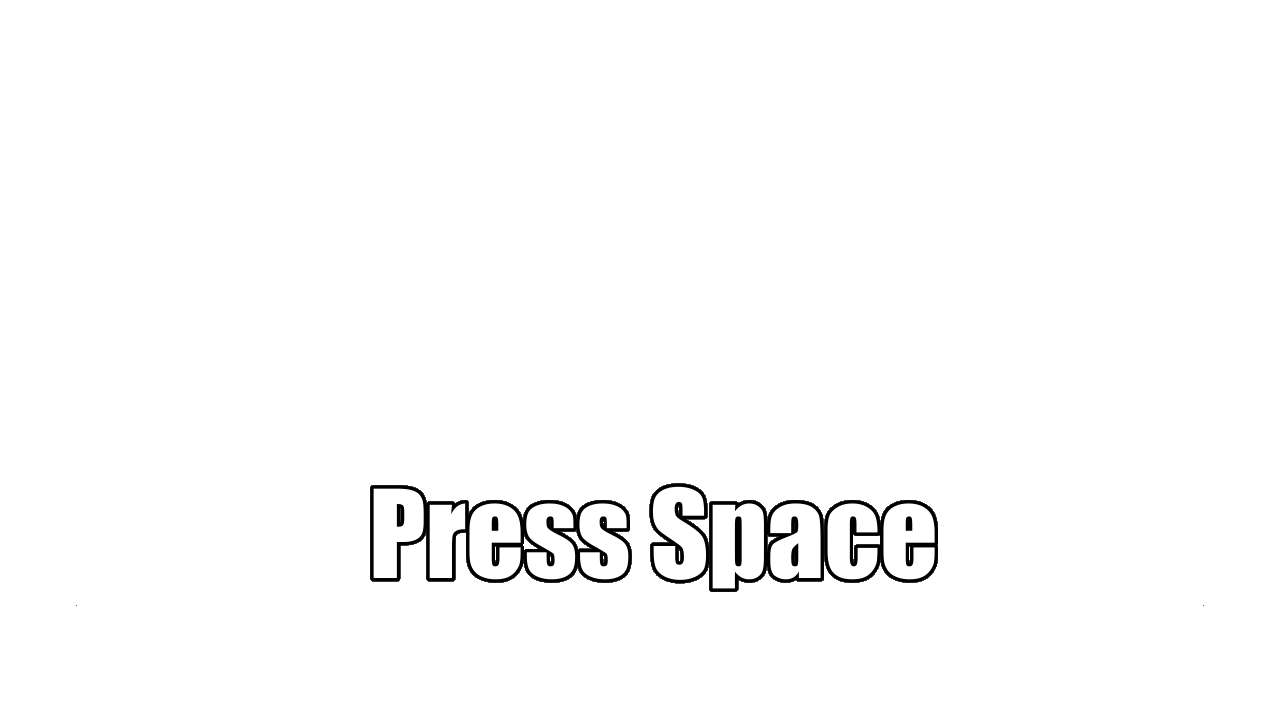
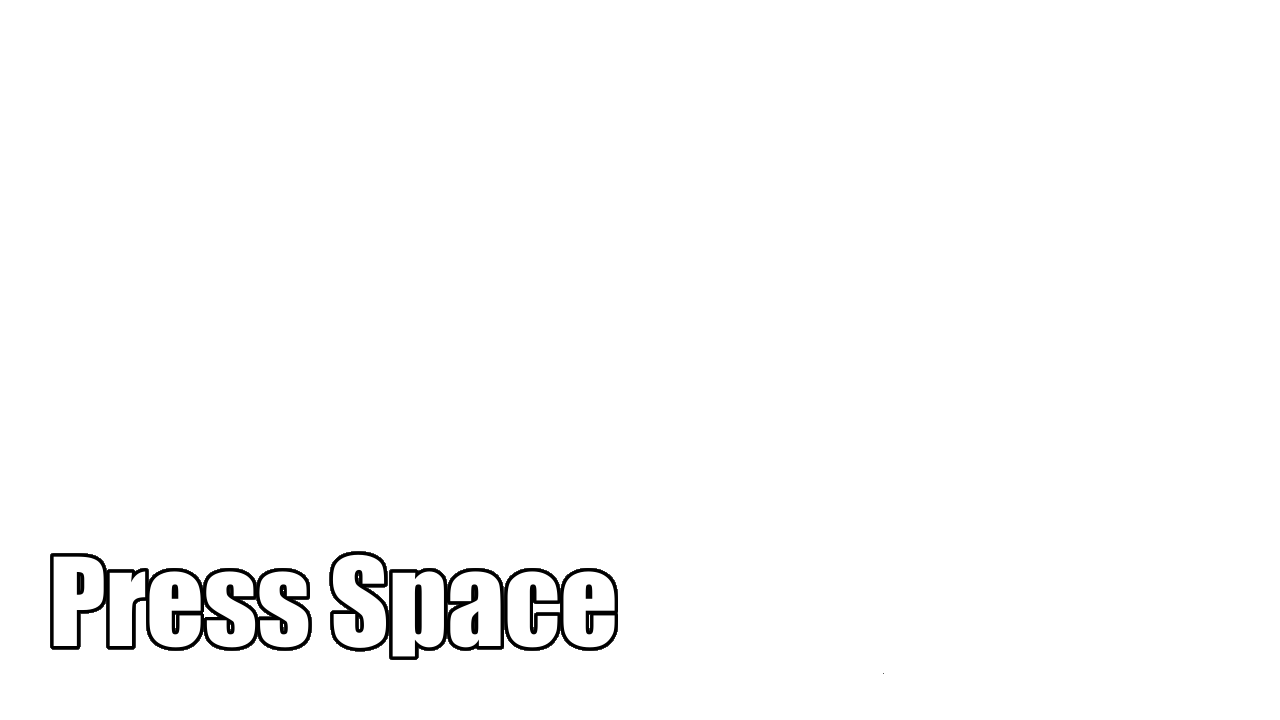
TitleSceneでページをめくるような感じに変更

Changed region(s): [[0.0312, 0.6722, 0.75, 0.9167]]

diff --git a/project/gamedata/scenes/GameTitleScene.cpp b/project/gamedata/scenes/GameTitleScene.cpp
@@ -9,16 +9,19 @@ void GameTitleScene::Initialize() {
 
 	textureManager_ = TextureManager::GetInstance();
 
-	title_ = textureManager_->Load("project/gamedata/resources/Start.png");
+	pageL_ = textureManager_->Load("project/gamedata/resources/pageLeft.png");
+	pageR_ = textureManager_->Load("project/gamedata/resources/pageRight.png");
+	pageAll_ = textureManager_->Load("project/gamedata/resources/page.png");
 	start_ = textureManager_->Load("project/gamedata/resources/pressSpace.png");
-	tutorial_ = textureManager_->Load("project/gamedata/resources/tutorial.png");
+	title_ = textureManager_->Load("project/gamedata/resources/title.png");
 
 	//Audio
 	audio_ = Audio::GetInstance();
 	soundData1_ = audio_->SoundLoadWave("project/gamedata/resources/click.wav");
 
 	spriteMaterial_ = { 1.0f,1.0f,1.0f,1.0f };
-	spriteTransform_ = { {1.0f,1.0f,1.0f},{0.0f,0.0f,0.0f},{0.0f,0.0f,0.0f} };
+	spriteTransform_ = { {1.0f,1.0f,1.0f},{0.0f,0.0f,0.0f},{1280.0f / 2.0f,720.0f / 2.0f,0.0f} };
+	spriteTransform2_ = { {1.0f,1.0f,1.0f},{0.0f,0.0f,0.0f},{1280.0f / 2.0f,720.0f / 2.0f,0.0f} };
 	SpriteuvTransform_ = {
 		{1.0f,1.0f,1.0f},
 		{0.0f,0.0f,0.0f},
@@ -26,25 +29,54 @@ void GameTitleScene::Initialize() {
 	};
 
 	sprite_[0] = std::make_unique <CreateSprite>();
-	sprite_[0]->Initialize(Vector2{ 100.0f,100.0f }, title_, false, false);
+	sprite_[0]->Initialize(Vector2{ 100.0f,100.0f }, pageAll_, false, false);
 	sprite_[0]->SetTextureInitialSize();
+	sprite_[0]->SetAnchor(Vector2{ 0.5f,0.5f });
 
 	sprite_[1] = std::make_unique <CreateSprite>();
-	sprite_[1]->Initialize(Vector2{ 100.0f,100.0f }, tutorial_, false, false);
+	sprite_[1]->Initialize(Vector2{ 100.0f,100.0f }, pageL_, false, false);
 	sprite_[1]->SetTextureInitialSize();
+	sprite_[1]->SetAnchor(Vector2{ 0.5f,0.5f });
 
 	sprite_[2] = std::make_unique <CreateSprite>();
-	sprite_[2]->Initialize(Vector2{ 100.0f,100.0f }, start_, false, false);
+	sprite_[2]->Initialize(Vector2{ 100.0f,100.0f }, pageR_, false, false);
 	sprite_[2]->SetTextureInitialSize();
+	sprite_[2]->SetAnchor(Vector2{ 0.5f,0.5f });
+
+	sprite_[3] = std::make_unique <CreateSprite>();
+	sprite_[3]->Initialize(Vector2{ 100.0f,100.0f }, start_, false, false);
+	sprite_[3]->SetTextureInitialSize();
+	sprite_[3]->SetAnchor(Vector2{ 0.5f,0.5f });
+
+	sprite_[4] = std::make_unique <CreateSprite>();
+	sprite_[4]->Initialize(Vector2{ 100.0f,100.0f }, title_, false, false);
+	sprite_[4]->SetTextureInitialSize();
+	sprite_[4]->SetAnchor(Vector2{ 0.5f,0.5f });
 
 	count = 0;
 }
 
 void GameTitleScene::Update() {
 	if (input_->TriggerKey(DIK_SPACE) && count < 2) {
-		count++;
-		audio_->SoundPlayWave(soundData1_, 0.5f, false);
+		if (pageChange_ == false) {
+			pageChange_ = true;
+			spriteTransform2_.rotate.num[1] = 0.0f;
+			audio_->SoundPlayWave(soundData1_, 0.5f, false);
+		}
+		else {
+			
+		}
 	}
+
+	if (pageChange_ == true) {
+		spriteTransform2_.rotate.num[1] += 0.05f;
+		if (spriteTransform2_.rotate.num[1] >= 3.15f) {
+			spriteTransform2_.rotate.num[1] = 3.15f;
+			count++;
+			pageChange_ = false;
+		}
+	}
+
 	if (count == 0) {
 		if (changeAlpha_ == false) {
 			spriteAlpha_ -= 8;
@@ -60,7 +92,6 @@ void GameTitleScene::Update() {
 		}
 	}
 	if (count == 1) {
-
 	}
 	if (count == 2) {
 		count = 0;
@@ -71,12 +102,17 @@ void GameTitleScene::Update() {
 void GameTitleScene::Draw() {
 #pragma region 前景スプライト描画
 	CJEngine_->PreDraw2D();
-	if (count == 0) {
-		sprite_[0]->Draw(spriteTransform_, SpriteuvTransform_, spriteMaterial_);
-		sprite_[2]->Draw(spriteTransform_, SpriteuvTransform_, Vector4{ 1.0f,1.0f,1.0f,spriteAlpha_ / 256.0f });
-	}
-	if (count == 1) {
-		sprite_[1]->Draw(spriteTransform_, SpriteuvTransform_, spriteMaterial_);
+	sprite_[0]->Draw(spriteTransform_, SpriteuvTransform_, spriteMaterial_);
+	sprite_[1]->Draw(spriteTransform_, SpriteuvTransform_, spriteMaterial_);
+	sprite_[2]->Draw(spriteTransform2_, SpriteuvTransform_, spriteMaterial_);
+	if (pageChange_ == false) {
+		if (count == 0) {
+			sprite_[3]->Draw(spriteTransform_, SpriteuvTransform_, Vector4{ 1.0f,1.0f,1.0f,spriteAlpha_ / 256.0f });
+			sprite_[4]->Draw(spriteTransform_, SpriteuvTransform_, spriteMaterial_);
+		}
+		if (count == 1) {
+		
+		}
 	}
 
 #pragma endregion

diff --git a/base/components/2d/CreateSprite.cpp b/base/components/2d/CreateSprite.cpp
@@ -71,7 +71,7 @@ void CreateSprite::Draw(const Transform& transform, const Transform& uvTransform
 	dxCommon_->GetCommandList()->IASetVertexBuffers(0, 1, &vertexBufferView_);
 	dxCommon_->GetCommandList()->IASetIndexBuffer(&indexBufferViewSprite_);
 
-	dxCommon_->GetCommandList()->IASetPrimitiveTopology(D3D_PRIMITIVE_TOPOLOGY_TRIANGLESTRIP);
+	dxCommon_->GetCommandList()->IASetPrimitiveTopology(D3D_PRIMITIVE_TOPOLOGY_TRIANGLELIST);
 	dxCommon_->GetCommandList()->SetGraphicsRootConstantBufferView(0, materialResource_->GetGPUVirtualAddress());
 	dxCommon_->GetCommandList()->SetGraphicsRootConstantBufferView(1, wvpResource_->GetGPUVirtualAddress());
 	dxCommon_->GetCommandList()->SetGraphicsRootDescriptorTable(2, textureManager_->GetGPUHandle(index_));

diff --git a/project/gamedata/scenes/GameTitleScene.h b/project/gamedata/scenes/GameTitleScene.h
@@ -20,20 +20,25 @@ private:
 
 	TextureManager* textureManager_;
 
-	std::unique_ptr <CreateSprite> sprite_[3];
+	std::unique_ptr <CreateSprite> sprite_[5];
 	Transform spriteTransform_;
+	Transform spriteTransform2_;
 	Transform SpriteuvTransform_;
 	Vector4 spriteMaterial_;
 
 	float spriteAlpha_ = 256.0f;
 
-	uint32_t title_;
+	uint32_t pageL_;
+	uint32_t pageR_;
+	uint32_t pageAll_;
 	uint32_t start_;
-	uint32_t tutorial_;
+	uint32_t title_;
 
 	bool changeAlpha_ = false;
 
 	int count = 0;
+
+	bool pageChange_ = false;
 
 	Audio* audio_;
 	SoundData soundData1_;

diff --git a/base/CJEngine.cpp b/base/CJEngine.cpp
@@ -328,7 +328,7 @@ void CitrusJunosEngine::InitializePSO2D() {
 }
 void CitrusJunosEngine::RasterizerState2D() {
 	//全て表示する
-	rasterizerDesc2D_.CullMode = D3D12_CULL_MODE_BACK;
+	rasterizerDesc2D_.CullMode = D3D12_CULL_MODE_NONE;
 	//三角形の中を塗りつぶす
 	rasterizerDesc2D_.FillMode = D3D12_FILL_MODE_SOLID;
 
